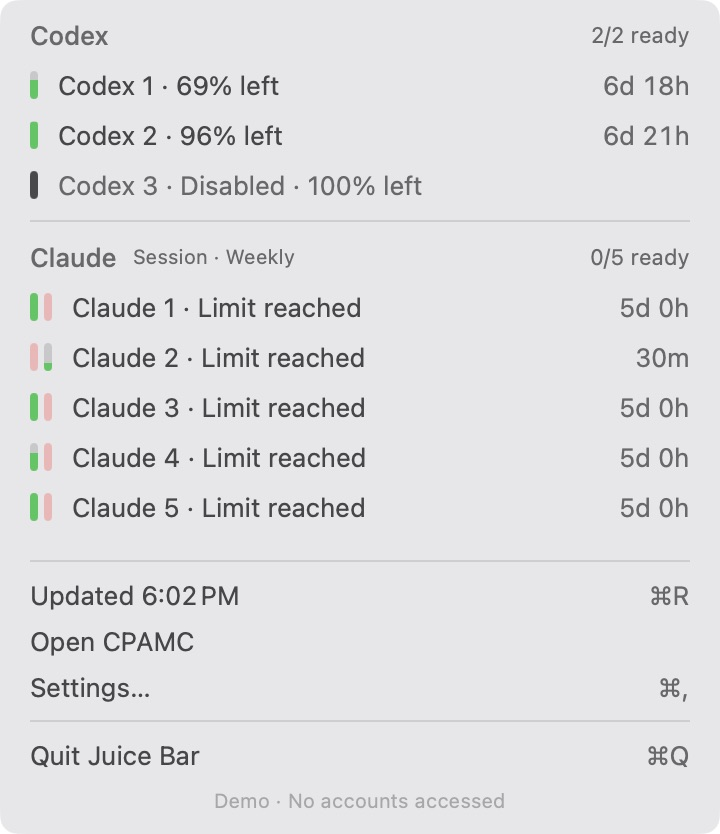
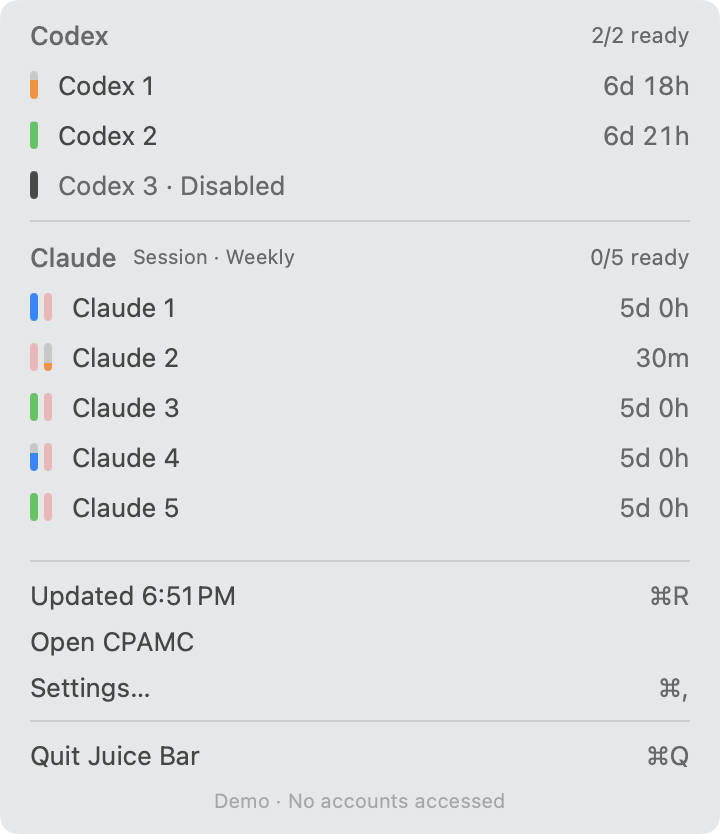
Show renewal times in account details and simplify the overview rows
The overview keeps to the bars, the account name and the time until its next
renewal: no hover highlight, percentage or plan. In an account's details, each
allowance shows when it renews on the right, as the time left; a click switches
every renewal to its date and time, and back. What is left moves underneath.

diff --git a/Sources/CPAMCMenuBar/SubscriptionPanel.swift b/Sources/CPAMCMenuBar/SubscriptionPanel.swift
@@ -72,7 +72,8 @@ struct SubscriptionPanel: View {
     @AppStorage("hideDisabledClaude") private var hideDisabledClaude = false
     @State private var selected: String?
     @State private var settings = false
-    @State private var hovered: String?
+    /// Whether the details show renewals as a date and time rather than the time left. A click on one switches them all.
+    @State private var renewalDates = false
 
     var body: some View {
         VStack(spacing: 0) {
@@ -135,9 +136,9 @@ struct SubscriptionPanel: View {
         let window = account.tightestWindow
         let left = account.disabled ? window?.leftPercent : account.freshLeft(at: store.now)
         let tone = store.error == nil ? account.tone(at: store.now) : .unknown
-        let caption = account.disabled ? Copy.text("disabled") + (account.hasUsage ? " · " + Copy.percent(left) : "") : left == nil && window?.leftPercent != nil
+        // The bars show the level; the words are for VoiceOver.
+        let level = account.disabled ? Copy.text("disabled") + (account.hasUsage ? " · " + Copy.percent(left) : "") : left == nil && window?.leftPercent != nil
             ? Copy.text("lastKnown") + " · " + Copy.percent(window?.leftPercent) : Copy.percent(left)
-        let highlighted = hovered == account.id && account.canInspect
         let renewal = Copy.duration(account.cooldownUntil.flatMap { $0 > store.now ? $0 : nil } ?? window?.resetsAt, now: store.now)
         let pace = tone == .unknown || tone == .out ? nil : account.pace(at: store.now).map { ", " + Copy.pace($0) }
         return Button { store.accountUpdateError = nil; selected = account.id } label: {
@@ -150,17 +151,16 @@ struct SubscriptionPanel: View {
                 } else {
                     LevelCapsule(left: account.disabled ? left : tone == .unknown ? nil : left, tone: tone)
                 }
-                Text(name(account) + " · " + (highlighted ? account.plan.map { $0 + " · " } ?? "" : "") + caption)
+                Text(name(account) + (account.disabled ? " · " + Copy.text("disabled") : ""))
                     .lineLimit(1).truncationMode(.middle).frame(maxWidth: .infinity, alignment: .leading)
-                if let renewal, !account.disabled { Text(renewal).monospacedDigit().foregroundStyle(highlighted ? .white.opacity(0.8) : .secondary) }
+                if let renewal, !account.disabled { Text(renewal).monospacedDigit().foregroundStyle(.secondary) }
             }
             .padding(.horizontal, 10).frame(height: 25).contentShape(Rectangle())
-            .foregroundStyle(highlighted ? Color.white : account.disabled ? .secondary : .primary)
-            .background(highlighted ? Color.accentColor : Color.clear, in: RoundedRectangle(cornerRadius: 5))
+            .foregroundStyle(account.disabled ? .secondary : .primary)
         }
-        .buttonStyle(.plain).disabled(!account.canInspect).onHover { hovered = $0 && account.canInspect ? account.id : nil }
-        .help([account.plan, account.readError].compactMap { $0 }.joined(separator: " · "))
-        .accessibilityLabel("\(name(account)), \(caption)\(pace ?? ""), \(renewal ?? "")")
+        .buttonStyle(.plain).disabled(!account.canInspect)
+        .help(account.readError ?? "")
+        .accessibilityLabel("\(name(account)), \(level)\(pace ?? ""), \(renewal ?? "")")
         .accessibilityValue(account.provider == .claude ? Copy.text("session") + ": " + Copy.percent(account.claudeRowWindows[0]?.leftPercent) + ", " + Copy.text("weekly") + ": " + Copy.percent(account.claudeRowWindows[1]?.leftPercent) : "")
     }
     private func quotaBar(_ window: QuotaWindow?, account: SubscriptionAccount, label: String) -> some View {
@@ -169,6 +169,16 @@ struct SubscriptionPanel: View {
         let pace = tone == .unknown || tone == .out ? nil : window?.pace(at: store.now).map { ", " + Copy.pace($0.pace) }
         return LevelCapsule(left: current || account.disabled ? window?.leftPercent : nil, tone: tone)
             .help(label + ": " + Copy.percent(window?.leftPercent) + (pace ?? ""))
+    }
+    /// When an allowance renews: the time left, or the date and time once clicked.
+    private func renewal(_ reset: Date) -> some View {
+        let relative = Copy.duration(reset, now: store.now) ?? ""
+        let text = renewalDates ? Copy.moment(reset, now: store.now) : relative
+        return Button { renewalDates.toggle() } label: {
+            Text(text).monospacedDigit().lineLimit(1).padding(.leading, 8).contentShape(Rectangle())
+        }
+        .buttonStyle(.plain).layoutPriority(1)
+        .accessibilityLabel(renewalDates ? Copy.text("renews") + " " + text : Copy.text("renewsIn", relative))
     }
     /// Where the window's pace leads by its renewal.
     private func paceLine(_ estimate: PaceEstimate) -> String? {
@@ -215,15 +225,15 @@ struct SubscriptionPanel: View {
                     LevelCapsule(left: fresh ? window.leftPercent : nil, tone: tone).padding(.top, 2)
                     VStack(alignment: .leading, spacing: 3) {
                         HStack {
-                            Text(Copy.text(window.id))
+                            Text(Copy.text(window.id)).lineLimit(1)
                             Spacer()
-                            Text(Copy.percent(window.leftPercent))
-                                .foregroundStyle([.out, .low, .overPace].contains(tone) ? tone.color : .primary)
+                            if let reset = window.resetsAt, reset > store.now { renewal(reset) }
                         }
-                        if !fresh { Text(Copy.text("lastKnown")).font(.system(size: 11)).foregroundStyle(.secondary) }
-                        if let reset = window.resetsAt {
-                            Text(reset > store.now ? Copy.text("renews") + " " + Copy.timestamp(reset, now: store.now, includeDate: true) : Copy.text("awaiting"))
-                                .font(.system(size: 11)).foregroundStyle(.secondary)
+                        Text((fresh ? "" : Copy.text("lastKnown") + " · ") + Copy.percent(window.leftPercent))
+                            .font(.system(size: 11))
+                            .foregroundStyle([.out, .low, .overPace].contains(tone) ? tone.color : .secondary)
+                        if let reset = window.resetsAt, reset <= store.now {
+                            Text(Copy.text("awaiting")).font(.system(size: 11)).foregroundStyle(.secondary)
                         }
                         if fresh, tone != .out, let line = window.pace(at: store.now).flatMap(paceLine) {
                             Text(line).font(.system(size: 11)).foregroundStyle(.secondary)

diff --git a/Sources/CPAMCMenuBar/Copy.swift b/Sources/CPAMCMenuBar/Copy.swift
@@ -45,7 +45,7 @@ enum Copy {
         "title": "Subscriptions", "back": "Back",
         "loading": "Reading your subscriptions…", "empty": "No Claude or Codex accounts connected",
         "limit": "Limit reached", "noReading": "No reading", "lastKnown": "Last known",
-        "left": "% left", "ready": "ready", "disabled": "Disabled", "renews": "Renews",
+        "left": "% left", "ready": "ready", "disabled": "Disabled", "renews": "Renews", "renewsIn": "Renews in %@",
         "cooldown": "Proxy cooldown until", "awaiting": "Awaiting a fresh reading",
         "refresh": "Refresh", "refreshing": "Refreshing…", "updated": "Updated",
         "dashboard": "Open CPAMC", "settings": "Settings…", "quit": "Quit Juice Bar",
@@ -109,7 +109,7 @@ enum Copy {
         "title": "Abonnements", "back": "Retour",
         "loading": "Lecture de tes abonnements…", "empty": "Aucun compte Claude ou Codex connecté",
         "limit": "Limite atteinte", "noReading": "Aucune lecture", "lastKnown": "Dernière valeur",
-        "left": "% restants", "ready": "disponibles", "disabled": "Désactivé", "renews": "Renouvellement",
+        "left": "% restants", "ready": "disponibles", "disabled": "Désactivé", "renews": "Renouvellement", "renewsIn": "Renouvellement dans %@",
         "cooldown": "Pause du proxy jusqu’au", "awaiting": "En attente d’une nouvelle lecture",
         "refresh": "Actualiser", "refreshing": "Actualisation…", "updated": "Actualisé à",
         "dashboard": "Ouvrir CPAMC", "settings": "Réglages…", "quit": "Quitter Juice Bar",
@@ -151,6 +151,12 @@ enum Copy {
         if m >= 1440 { return "\(m / 1440)\(isFrench ? "j" : "d") \((m % 1440) / 60)h" }
         if m >= 60 { return "\(m / 60)h \(m % 60)m" }
         return "\(m)m"
+    }
+    /// A date and time within the coming week, without the year: “7:46 PM” today, “Mon, Oct 19 at 7:46 PM” otherwise.
+    static func moment(_ date: Date, now: Date) -> String {
+        let f = DateFormatter(); f.locale = locale
+        f.setLocalizedDateFormatFromTemplate(Calendar.current.isDate(date, inSameDayAs: now) ? "jmm" : "EEEMMMdjmm")
+        return f.string(from: date)
     }
     static func timestamp(_ date: Date, now: Date, includeDate: Bool = false) -> String {
         let f = DateFormatter(); f.locale = locale

diff --git a/plugin/plugin.c b/plugin/plugin.c
@@ -36,7 +36,7 @@ static int invoke(const char *method, const uint8_t *request, size_t len, clipro
     (void)request; (void)len;
     if (!method) return respond(out, "{\"ok\":false,\"error\":{\"code\":\"invalid_method\",\"message\":\"Method required\"}}");
     if (!strcmp(method, "plugin.register") || !strcmp(method, "plugin.reconfigure")) {
-        return respond(out, "{\"ok\":true,\"result\":{\"schema_version\":6,\"metadata\":{\"Name\":\"Juice Bar\",\"Version\":\"0.5.0\",\"Author\":\"Florian Pariset\",\"GitHubRepository\":\"https://github.com/mindtheflo/juice-bar\",\"ConfigFields\":[]},\"capabilities\":{\"management_api\":true}}}");
+        return respond(out, "{\"ok\":true,\"result\":{\"schema_version\":6,\"metadata\":{\"Name\":\"Juice Bar\",\"Version\":\"0.6.0\",\"Author\":\"Florian Pariset\",\"GitHubRepository\":\"https://github.com/mindtheflo/juice-bar\",\"ConfigFields\":[]},\"capabilities\":{\"management_api\":true}}}");
     }
     if (!strcmp(method, "management.register")) {
         return respond(out, "{\"ok\":true,\"result\":{\"resources\":[{\"Path\":\"/menubar\",\"Menu\":\"Juice Bar\",\"Description\":\"Claude and Codex subscriptions in your macOS menu bar.\"}]}}");

diff --git a/README.md b/README.md
@@ -31,7 +31,7 @@ Captured directly from the native app on macOS, cropped to the menu panel. These
 ## What it shows
 
 - Claude and Codex accounts connected to your local CPAMC/CLIProxyAPI instance, including disabled accounts. Disabled accounts show readable usage but never count as available; rows without a usage reading cannot be opened. Hover a provider’s header to hide or show its disabled accounts; the choice is remembered per provider.
-- Subscription plan, remaining allowance, five-hour/weekly windows, reset times, and local proxy cooldowns.
+- Subscription plan, remaining allowance, five-hour/weekly windows, reset times, and local proxy cooldowns. The overview keeps to the bars and the time until each account's next renewal; an account's details show what each allowance has left and when it renews. Click a renewal time there to switch between the time left and the date and time.
 - **Pace** for each session and weekly allowance: at the rate you have used it since it renewed, will it run out first? Green is on track, orange runs out before it renews, blue is well under (less than half used by then), red is used up. An allowance's details say when it runs out at this pace, or about how much of it you will have used by its renewal.
 - Paid credits and extra-usage availability separately from included subscription quotas.
 - Unused Claude promotional reset counts, without consuming them.
